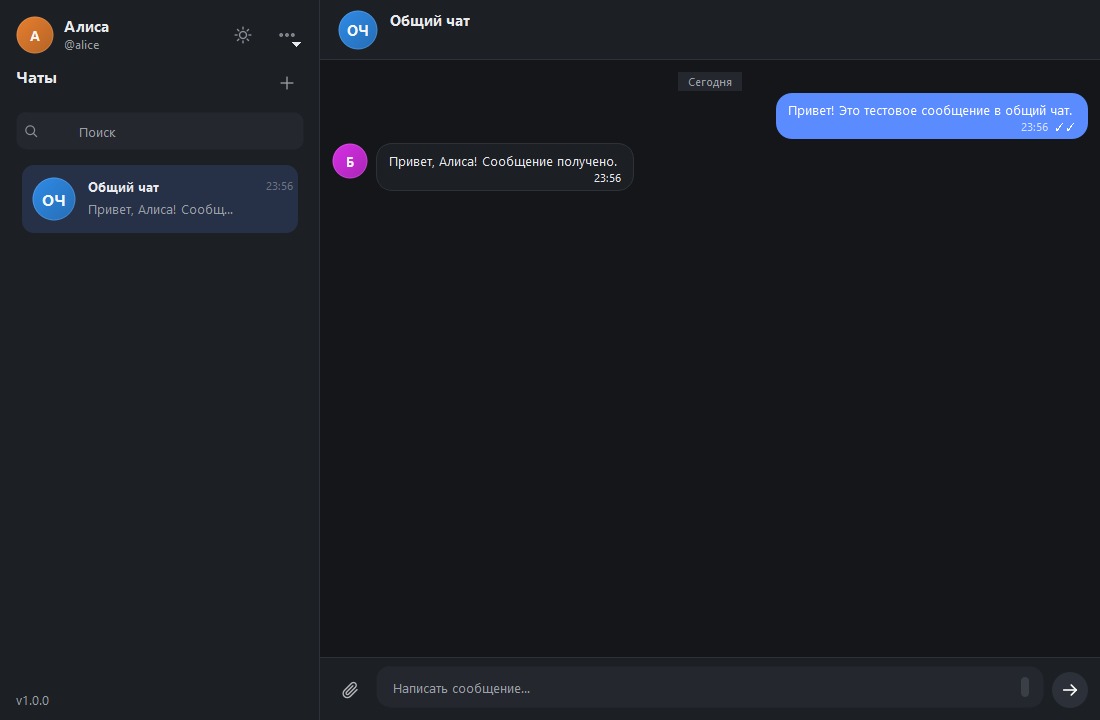
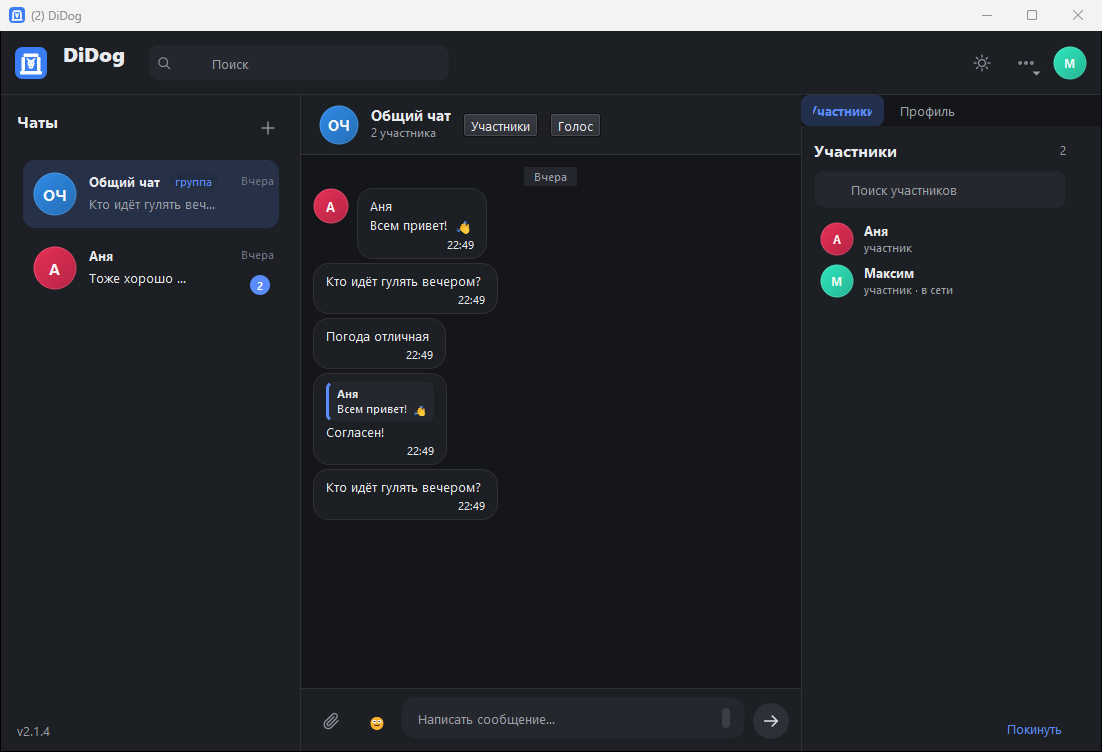
docs: DiDog roadmap, refreshed screenshots and feature docs

diff --git a/docs/ROADMAP.md b/docs/ROADMAP.md
@@ -1,121 +1,132 @@
-# План работ
+# Дорожная карта DiDog
 
-Статусы: `[ ]` — не начато, `[~]` — в работе, `[x]` — готово и проверено сборкой/тестами.
+Статусы: `[x]` — готово и проверено, `[~]` — в работе, `[ ]` — не начато.
 
-## M0. Каркас и сборка
+## Где мы сейчас
 
-- [x] `git init`, `.gitignore`, `.gitattributes`, LICENSE
-- [x] CMake (Qt 5.14+, C++17, все модули), `CMakePresets.json`
-- [x] Логирование в файл (`qInstallMessageHandler`, ротация)
-- [x] `AppPaths`: каталоги данных, `MESSENGER_DATA_DIR`, `--profile`
-- [x] `ThemeManager` + `base.qss` с токенами, светлая и тёмная темы
-- [x] `SettingsStore` (INI в каталоге данных)
-- [x] Single-instance (`QLockFile`)
-- [x] Каркас окна клиента, `AvatarWidget`, иконки
-- [x] Консольный сервер: аргументы, лог, баннер
+MVP завершён (этапы M0–M7 прежнего плана): мессенджер **DiDog** с аккаунтами, личными
+и групповыми чатами, вложениями, ответами и статусами прочтения, голосовыми
+звонками с шифрованием AES-256-GCM, подписками и промокодами, автообновлением
+с дельтой файлов и новым интерфейсом «всё наверху». 23 набора тестов зелёные.
 
-Критерий: собирается MinGW, запускается окно, тема переключается на лету.
+Цель следующих больших обновлений — превратить MVP в продукт: стабильность,
+безопасность, производительность, монетизация и распространение.
 
-## M1. Данные и безопасность
+---
 
-- [x] `Database` (WAL, busy_timeout, foreign_keys), `Migrations` по `user_version`
-- [x] Карантин повреждённой БД и пересоздание (`*.corrupt-<ts>`)
-- [x] `PasswordHasher` (PBKDF2-HMAC-SHA256), валидация логина/пароля/имени/файлов
-- [x] `tst_password`, `tst_validation`, `tst_db` (схема, версия, переоткрытие, повреждение, FK)
-- [x] Репозитории: пользователи, чаты, участники, сообщения, вложения, квитанции, outbox
-- [x] `tst_repositories`: идемпотентность, пагинация, статусы, непрочитанные, вложения, очередь
+## Этап 2.2–2.3. Полировка продукта
 
-Критерий: БД создаётся и мигрирует, тесты зелёные.
+- [~] Единый топбар: перенести в него «Голос», «Участники», поиск по сообщениям,
+  статус соединения и версию; убрать дубли из шапки чата.
+- [ ] Вкладка «Профиль» справа — для любого пользователя (сейчас свой профиль):
+  баннер, «о себе», статус, общие чаты, «Написать», «Позвонить».
+- [ ] Реакции на сообщения (таблица `reactions`, счётчики, своя кнопка).
+- [ ] Пересылка сообщений (по `id`/sha вложения, пометка «Пересланное»).
+- [ ] Закреплённые сообщения в чате.
+- [ ] Секции в списке чатов: закреплённые, личные, группы; mute и архив чата.
+- [ ] Глобальный поиск по всем чатам и сообщениям (сейчас `Ctrl+F` в чате).
+- [ ] Звук уведомлений, «не беспокоить» по чатам, горячие клавиши.
+- [ ] Онбординг первого запуска: выбор темы, ник, быстрый тур.
+- [ ] Виртуализация длинных лент (не пересоздавать все пузыри).
+- [ ] Crash-репорты (minidump + лог) и автоотправка.
+- [ ] UI-тесты по главным сценариям (Squish-подобные или Qt Test + снимки).
 
-## M2. Протокол и сервер
+**Критерий этапа**: основные жалобы пользователей закрыты, экран не «прыгает»,
+лента в 10 000 сообщений листается плавно.
 
-- [x] `FrameCodec`, `Protocol` (JSON-конверт, коды ошибок), `JsonMapping`
-- [x] `ServerCore`: сессии, auth (register/login/resume/logout), chat.list/open/direct/read, msg.send, receipts, typing, presence
-- [x] `ClientSession`: разбор кадров, диспетчеризация, ответы и события
-- [x] `tst_protocol`, `tst_server_smoke` (два клиента, ack, идемпотентность, ev.msg/ev.read/ev.receipt)
-- [ ] `AttachmentStore`: приём чанками, sha256, контент-адресация
+## Этап 2.4. Голос 2.0
 
-Критерий: headless smoke — два клиента обменялись текстом, ack и read корректы.
+- [ ] End-to-end шифрование голоса (обмен ключами между участниками, а не ключ
+  комнаты от сервера; DTLS-SRTP или X25519+ChaCha20).
+- [ ] Панель активного звонка: кто говорит, таймер, mute/deafen, качество.
+- [ ] Push-to-talk горячей клавишей; авторегулировка громкости (AGC).
+- [ ] Шумоподавление (RNNoise) и подавление эха.
+- [ ] Групповые звонки: индикация списка, «поднял трубку» каждого.
+- [ ] Демонстрация экрана в звонке.
+- [ ] Адаптивный jitter-буфер и переключение битрейта по качеству сети.
 
-## M3. Клиентская сеть
+**Критерий**: звонок стабилен на 150 мс джиттера и 3% потерь; ключи не видит
+даже сервер.
 
-- [x] `ClientConnection`, `RequestTracker` (id → callback, таймауты, офлайн-ошибка)
-- [x] Авто-переподключение 1→30 с с jitter, heartbeat `ping`
-- [x] `SessionService`: register/login/resume/logout, токен в настройках профиля
-- [x] `tst_client`, `tst_session`
-- [ ] `OutboxService`: офлайн-очередь, повторная отправка без дублей
+## Этап 3.0. Серверная зрелость
 
-Критерий: падение сервера не теряет сообщения, после подъёма всё доезжает ровно один раз.
+- [ ] Rate limiting, троттлинг, защита от спама/флуда, капча при регистрации.
+- [ ] Админ-роль: модерирование чатов, бан/мут, список жалоб.
+- [ ] Журнал аудита сервера; метрики (Prometheus) и healthcheck `/healthz`.
+- [ ] Резервные копии по расписанию и восстановление (скрипт уже есть — в cron).
+- [ ] Ограничение квот: размер файлов, хранение, число участников группы.
+- [ ] Обновление схемы БД без даунтайма, политика совместимости протокола.
+- [ ] Многопользовательский сервер: несколько «организаций» на одном инстансе.
+- [ ] Горизонтальное масштабирование: отдельные процессы для медиа и релея.
 
-## M4. UI ядра
+**Критерий**: сервер держит 1000 активных пользователей на одном VPS без
+деградации; обновления накатываются без потери сообщений.
 
-- [x] `LoginWindow`: вход/регистрация, адрес сервера, «запомнить меня», ошибки
-- [x] `MainWindow`: список чатов (делегат), шапка, лента, композер
-- [x] `ChatService`: загрузка чатов, открытие, отправка, статусы, непрочитанные, typing/presence
-- [x] `MessageView` + `MessageBubble`: группировка, разделители дат, автопрокрутка, анимация
-- [x] Темы на лету, пустые состояния, баннер отсутствия соединения
-- [x] `tst_ui_flow`: два клиента, регистрация через форму, обмен сообщением, скриншоты
-- [x] Локальное хранилище истории в SQLite (отдельный поток) и восстановление после перезапуска
-- [x] `HistoryStore`: кэш чатов, сообщения, офлайн-очередь с повторной отправкой
-- [x] `tst_history`, проверка восстановления ленты в `tst_ui_flow`
+## Этап 3.1. Безопасность и комплаенс
 
-Критерий: два окна переписываются в реальном времени, история переживает перезапуск.
+- [ ] Двухфакторная аутентификация (TOTP).
+- [ ] Список активных сессий и выход со всех устройств.
+- [ ] Смена пароля, восстановление доступа.
+- [ ] E2EE для личных чатов (Double Ratchet/MLS) — опционально, большая работа.
+- [ ] Политика конфиденциальности, пользовательское соглашение, ПДн (152-ФЗ),
+  хранение данных резидентов РФ; при необходимости — уведомление РКН.
+- [ ] Пентест и обработка находок; программа ответственного разглашения.
 
-## M5. Медиа
+**Критерий**: независимый обзор не находит критических уязвимостей в протоколе.
 
-- [x] Серверный `AttachmentStore`: приём чанками 64 КиБ, sha256, контент-адресация
-- [x] Выдача файла клиенту с подтверждением `attach.end` и контролем размера
-- [x] Клиентские загрузка/скачивание с прогрессом, кэш по sha256
-- [x] Отправка из композера, лимит 25 МБ, превью фото и GIF
-- [x] Плитка файла, превью в списке чатов, `tst_ui_flow` с картинкой end-to-end
-- [x] Видеоплеер в модальном окне (play/pause, перемотка, громкость, fallback)
-- [x] Лайтбокс фото, «Сохранить как…» для файлов
-- [x] `tst_media`: типы файлов, форматирование размеров, лайтбокс
+## Этап 3.2. Монетизация
 
-Критерий: фото/GIF/видео/файл ходят между клиентами и открываются.
+- [ ] Платежи ЮKassa: подписка, чеки, вебхуки, возвраты.
+- [ ] Кастомные эмодзи-паки и темы по подписке (архитектура `EmojiCatalog` готова).
+- [ ] Кастомизация профиля: баннер, рамка, бейджи, статус.
+- [ ] Пробный период и промокоды для блогеров.
+- [ ] Простая внутренняя аналитика (активные пользователи, конверсия).
 
-## M6. Полировка
+**Критерий**: деньги доходят до сервера автоматически, доступ открывается без
+ручных операций.
 
-- [x] Трей: иконка, меню, уведомления о новых сообщениях, счётчик в заголовке окна
-- [x] Поиск по сообщениям (Ctrl+F) с переходом в чат
-- [x] `tst_history` (поиск по тексту) и `tst_ui_flow` (поиск через интерфейс)
-- [x] RU/EN локализация: `lupdate`/`lrelease`, 112 строк, `QTranslator`, переключение в настройках
-- [x] Диалог настроек: тема, язык, уведомления, адрес сервера, папка данных
-- [x] `tst_settings`, английский интерфейс в `tst_ui_flow`
-- [x] Заглушка загрузки истории, тосты ошибок, горячие клавиши (Ctrl+F, Ctrl+N)
-- [x] Доступность: имена элементов, фокус, подсказки
+## Этап 3.3. Платформы и распространение
 
-Критерий: все P1-функции работают, интерфейс целостен в обеих темах и языках.
+- [ ] Linux: AppImage и deb; macOS-сборка.
+- [ ] CI (GitHub Actions): сборка, тесты, установщик, релиз.
+- [ ] Подпись кода (нужен сертификат УЦ) — скрипт `scripts/sign.ps1` готов.
+- [ ] Публикация в Microsoft Store (MSIX) как альтернативный канал.
+- [ ] Лендинг, вики, changelog для пользователей.
+- [ ] Перевод интерфейса (английский уже есть; + третий язык).
 
-## M7. Поставка
+**Критерий**: свежий релиз ставится на Windows/Linux без инструкций, подпись
+издателя валидна.
 
-- [x] `scripts/package-windows.ps1`: `windeployqt`, переводы, README → `dist/MessengerApp`
-- [x] Установщик Inno Setup (`installer/messengerapp.iss`, `scripts/build-installer.ps1`):
-      ярлыки, брандмауэр, удаление; проверен тихой установкой и запуском
-- [x] `docs/NETWORK-TESTING.md`: сценарии localhost / локальная сеть / интернет
-- [x] Проверка пакета запуском без Qt в `PATH`
-- [x] GitHub Actions: Windows (MSVC 2019) и Ubuntu 22.04 (GCC), сборка + ctest
-- [x] README: сборка, запуск, упаковка, CI, скриншоты
-- [x] Финальный прогон чек-листа готовности (TZ-v2 §11) — [CHECKLIST.md](CHECKLIST.md)
+## Этап 4.0. Сообщество и рост
 
-## M8. Безопасность и развёртывание
+- [ ] Публичные/пригласительные серверы и каталог.
+- [ ] Роли и права в группах глубже (ранги, бан по времени).
+- [ ] Боты/API: токены и вебхуки.
+- [ ] Программа модераторов и правила.
+- [ ] Высокая доступность: резервный VPS, репликация БД.
 
-- [x] TLS: `QSslSocket`, серверный `TlsServer`, самоподписанный сертификат
-- [x] Закрепление отпечатка сертификата на клиенте (TOFU) и блокировка при подмене
-- [x] Галочка «Защищённое соединение (TLS)» на экране входа
-- [x] `scripts/make-cert.ps1` / `make-cert.sh`, сертификат в пакете и установщике
-- [x] Служба Windows: `--install-service`, `--uninstall-service`, режим `--service`
-- [x] `scripts/deploy-vps.sh` и `docs/VPS-DEPLOY.md` (systemd, TLS, ufw, бэкапы)
-- [x] `docs/WINDOWS-SERVICE.md`, `tst_tls`
+---
 
-Критерий: трафик шифруется, сервер работает без консоли и разворачивается на VPS.
+## Технический долг (перманентно)
 
-## M9. Функции мессенджера
+- Переименование артефактов: `MessengerClient.exe` → `DiDog.exe`, каталог данных
+  `MessengerApp` → `DiDog`, служба `messengerapp` → `didog` — с миграцией
+  настроек и истории.
+- Обновление иконки у уже установленных клиентов (кэш иконок Windows).
+- Рефакторинг `MainWindow` (файл больше 1300 строк).
+- Покрытие тестами голосового тракта и обновления end-to-end.
 
-- [x] Удаление чата у себя и очистка истории (1.2.0)
-- [x] Журнал изменений `CHANGELOG.md` и матрица функций `docs/FEATURES.md`
-- [x] Удаление сообщений (у себя / у всех), редактирование (1.3.0); пересылка — далее
-- [ ] Реакции, ответы, закрепление и mute чатов
-- [ ] Групповые чаты (схема БД готова)
-- [ ] Голосовые каналы: план в `docs/VOICE-AND-SUBSCRIPTIONS.md`
-- [ ] Подписка и кастомизация: план в `docs/VOICE-AND-SUBSCRIPTIONS.md`
+## Определение «выхода из MVP»
+
+MVP считается пройденным, когда одновременно:
+
+1. **Стабильность**: uptime сервера 99,9% за месяц, ноль потерь сообщений при
+   сбоях; клиент не падает в топ-10 сценариях (авторепорты это доказывают).
+2. **Безопасность**: голос E2EE, 2FA, сессии, политика конфиденциальности.
+3. **Производительность**: запуск < 2 с, лента 10 000 сообщений без лагов.
+4. **Продукт**: реакции, пересылка, закрепление, поиск, панель звонка, онбординг.
+5. **Монетизация**: минимум один платный тариф с автоматическим доступом.
+6. **Распространение**: подписанные релизы для Windows и Linux, публичный лендинг.
+
+После этого — полный ребрендинг артефактов (пункт 1 техдолга) и запуск как
+полноценный продукт.

diff --git a/docs/UI-CONCEPTS.md b/docs/UI-CONCEPTS.md
@@ -112,3 +112,14 @@
 - Композер: эмодзи-пикер, drag-and-drop, превью вложений, автовысота.
 - Лента: ответы с цитатой, панель действия при наведении, статусы прочтения.
 - Анимация появления нового сообщения (отключаемая).
+## Основа 2.2.0 (DiDog)
+
+- Верхняя панель на всю ширину: логотип, название DiDog и поиск слева;
+  справа иконки разделов (чаты, участники, тема, меню) и аватар-кнопка профиля.
+- Ниже — три колонки: чаты (300px), лента сообщений, правая панель (300px).
+- Правая панель — вкладки «Участники» и «Профиль»; в группах открываются
+  участники, в личных чатах — профиль.
+- Левая колонка содержит только список чатов и кнопку нового чата; профиль,
+  настройки и тема перенесены наверх/вправо.
+- Управление звонком и участниками осталось в шапке чата; в дальнейшем
+  переносится в верхнюю панель (см. ROADMAP).

diff --git a/docs/FEATURES.md b/docs/FEATURES.md
@@ -81,3 +81,12 @@
 | Настройки | ✅ | вкладки сверху + поиск |
 | Анимации | ✅ | появление сообщения, настройка отключения |
 | Скрипты деплоя | ✅ | `publish-update.ps1`, `deploy-update.sh` |
+## Интерфейс 2.2.0 (DiDog)
+
+| Функция | Статус | Комментарий |
+|---|---|---|
+| Ребрендинг DiDog | ✅ | логотип «собака в Д», имя в окнах/трее/установщике |
+| Верхняя панель | ✅ | логотип, название, поиск слева; иконки разделов справа |
+| Три колонки | ✅ | чаты / лента / правая панель |
+| Профиль вкладкой справа | ✅ | аватар, имя, @логин, версия, настройки, выход |
+| Заставка при запуске | ✅ | логотип + индикатор, затем вход, затем чат |

diff --git a/docs/UPDATER.md b/docs/UPDATER.md
@@ -68,7 +68,7 @@
 
 - `MessengerClient.exe` и `MessengerUpdater.exe`;
 - `MessengerServer.exe`;
-- установщик `MessengerApp-Setup-*.exe` (Inno Setup поддерживает `SignTool`).
+- установщик `DiDog-Setup-*.exe` (Inno Setup поддерживает `SignTool`).
 
 Скрипт `scripts/sign.ps1` (следующий этап) принимает PFX или отпечаток
 сертификата из хранилища и вызывает `signtool sign /fd SHA256 /tr <timestamp>`.

diff --git a/docs/NETWORK-TESTING.md b/docs/NETWORK-TESTING.md
@@ -13,7 +13,7 @@
 
 **На компьютере-сервере:**
 
-1. Установите MessengerApp (установщик) или распакуйте портативную папку.
+1. Установите DiDog (установщик) или распакуйте портативную папку.
 2. Запустите «Сервер MessengerApp». В окне консоли появится строка:
 
    ```

diff --git a/docs/protocol.md b/docs/protocol.md
@@ -1,4 +1,4 @@
-# Протокол MessengerApp v1
+# Протокол DiDog v1 (внутреннее имя MessengerApp)
 
 Транспорт: TCP, по умолчанию `127.0.0.1:45000`. Кодировка — UTF-8. Числа в JSON — целые (`int64`), время — unix-миллисекунды UTC.
 
